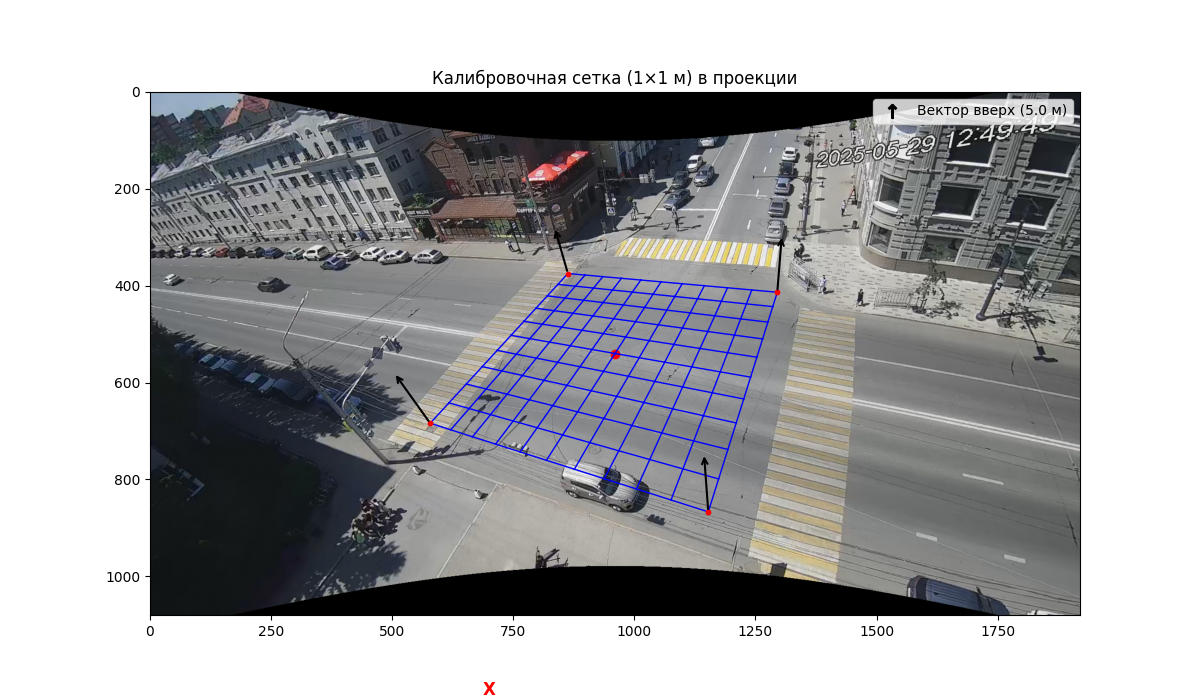
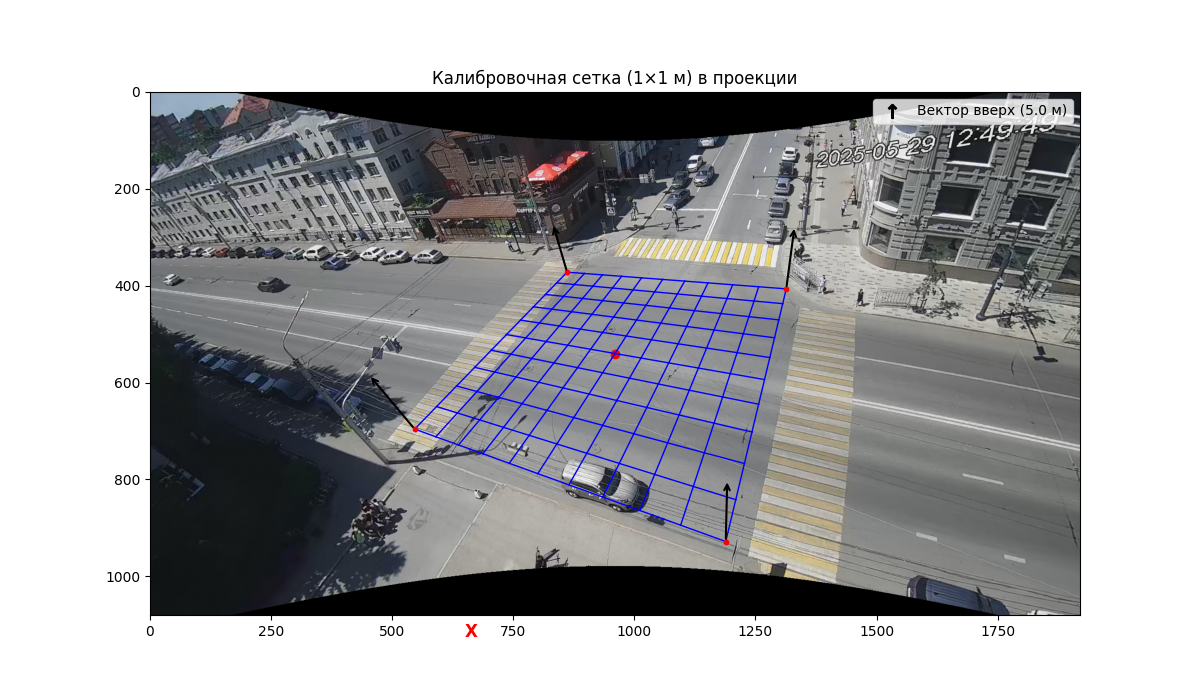
перешел на vscode, pycharm умер

Changed region(s): [[0.3392, 0.33, 0.6783, 0.78], [0.4008, 0.96, 0.4317, 0.99], [0.3083, 0.54, 0.3392, 0.57]]

diff --git a/example/karls_marks/example.py b/example/karls_marks/example.py
@@ -1,12 +1,18 @@
+import sys
+import os
+
+sys.path.insert(0, os.path.abspath(os.path.join(os.path.dirname(__file__), '..', '..')))
+
+
 import matplotlib.pyplot as plt
 
 from source import CalibrationPipeline, Camera, VanishingPointCalibration, \
     RefineOptimizer, PointND
 from source.calibration.utils import load_lines, load_lines_from_json, extract_direction_vectors_from_lines
-from calibration.refine import residual_interline_distance, residual_line_length
-from calibration.debug import load_scene_gps, visualize_source
+from source.calibration.refine import residual_interline_distance, residual_line_length
+from source.calibration.debug import load_scene_gps, visualize_source
 
-from vp_detection import VanishingPointEstimatorManual
+from source.vp_detection import VanishingPointEstimatorManual
 
 import numpy as np
 
@@ -23,7 +29,7 @@ camera = Camera('image/pattern_corrected_image.png')
 vp_init = VanishingPointCalibration(camera, debug_save_path='image/vp.png')
 vp_init.set_vanishing_points(vpX=vps_manual[0], vpZ=vps_manual[1])
 
-from utils import AnnotationParser
+from source.utils import AnnotationParser
 
 annotation_parser = AnnotationParser("marked/data_full.json")
 
@@ -35,11 +41,11 @@ data = {
 }
 
 resualds_blocks_first = [
-    lambda cam, data: residual_interline_distance(cam, data, group="pedestrian crossing", expected=4.2),
-    lambda cam, data: residual_interline_distance(cam, data, group="pedestrian crossing 2", expected=4.2),
-    lambda cam, data: residual_interline_distance(cam, data, group="pedestrian crossing 3", expected=4.2),
-    lambda cam, data: residual_interline_distance(cam, data, group="distance between line", expected=3.5),
-    lambda cam, data: residual_line_length(cam, data, group="pedestrian crossing", expected=24)
+    lambda cam, data: residual_interline_distance(cam, data, group="pedestrian crossing", expected=4),
+    lambda cam, data: residual_interline_distance(cam, data, group="pedestrian crossing 2", expected=4),
+    lambda cam, data: residual_interline_distance(cam, data, group="pedestrian crossing 3", expected=4),
+    lambda cam, data: residual_interline_distance(cam, data, group="distance between line", expected=3),
+    lambda cam, data: residual_line_length(cam, data, group="pedestrian crossing", expected=23),
 ]
 
 refiner_first = RefineOptimizer(camera=camera,
@@ -144,7 +150,7 @@ camera.extrinsics.set_rotation(euler_opt)
 
 print(*camera.get_params())
 
-from calibration.debug import visualize_grid_debug, visualize_grid_gps_debug
+from source.calibration.debug import visualize_grid_debug, visualize_grid_gps_debug
 
 point_start = PointND(camera.intrinsics.get_main_point(), add_weight=True)
 visualize_grid_debug(camera, point_start, grid_range=10, grid_step=2, save_path="image/grid_second.png")
@@ -153,7 +159,7 @@ visualize_grid_debug(camera, point_start, grid_range=10, grid_step=2, save_path=
 # visualize_vps_debug(camera, show=True)
 
 
-from calibration.utils import gps_to_enu, enu_to_gps
+from source.calibration.utils import gps_to_enu, enu_to_gps
 
 
 def generate_yandex_maps_url(points):
@@ -222,7 +228,7 @@ R = estimate_rotation_svd(points_cam, points_enu)
 anchor_3D = camera.project_back(PointND(camera.intrinsics.get_main_point(), add_weight=True), plane_z=0)
 anchor_x, anchor_y, anchor_z = anchor_3D.get()
 
-from calibration.debug import set_grid_real
+from source.calibration.debug import set_grid_real
 
 count, world_points = set_grid_real(anchor_x, anchor_y, 10, 2, 0)
 

diff --git a/source/calibration/refine/optimizer.py b/source/calibration/refine/optimizer.py
@@ -2,9 +2,9 @@ import numpy as np
 from pandas.core.methods.selectn import SelectNSeries
 from scipy.optimize import least_squares, minimize
 
-from calibration.base import Calibration
-from core.camera import Camera
-from core.pointND import PointND
+from ..base import Calibration
+from ...core.camera import Camera
+from ...core.pointND import PointND
 
 
 class RefineOptimizer(Calibration):
@@ -87,7 +87,7 @@ class RefineOptimizer(Calibration):
         self.camera.set_params_from_list(full_params)
 
         if self.debug_save_path is not None:
-            from calibration.debug import visualize_grid_debug, visualize_grid_gps_debug
+            from source.calibration.debug import visualize_grid_debug, visualize_grid_gps_debug
             point_start = PointND(self.camera.intrinsics.get_main_point(), add_weight=True)
             visualize_grid_debug(self.camera, point_start, save_path=self.debug_save_path + "grid.png", grid_range=10,
                                  grid_step=2)

diff --git a/source/calibration/init/from_vp.py b/source/calibration/init/from_vp.py
@@ -1,5 +1,5 @@
 import numpy as np
-from calibration.base import Calibration
+from ..base import Calibration
 from source.core import Camera, PointND
 
 
@@ -152,7 +152,7 @@ class VanishingPointCalibration(Calibration):
         print("✅ [VP Init] Инициализация завершена")
 
         if self.debug_save_path is not None:
-            from calibration.debug import visualize_vps_debug
+            from source.calibration.debug import visualize_vps_debug
             print(f"💾 Сохраняю визуализацию в: {self.debug_save_path}")
             visualize_vps_debug(self.camera, save_path=self.debug_save_path)
 

diff --git a/source/calibration/utils/__init__.py b/source/calibration/utils/__init__.py
@@ -1,6 +1,6 @@
-from calibration.utils.data_preparation import load_lines, load_lines_from_json, \
+from  .data_preparation import load_lines, load_lines_from_json, \
     extract_direction_vectors_from_lines
-from calibration.utils.gps_connection_world import gps_to_enu, enu_to_gps
+from .gps_connection_world import gps_to_enu, enu_to_gps
 from .plot_lines import draw_lines_on_image
 
 __all__ = [

diff --git a/source/calibration/refine/direct_error_funk.py b/source/calibration/refine/direct_error_funk.py
@@ -1,7 +1,7 @@
 import numpy as np
 
-from core import Camera, PointND
-from calibration.utils import gps_to_enu
+from ...core import Camera, PointND
+from ...calibration.utils import gps_to_enu
 
 
 def residual_reprojection_line(camera, data, group, gps_origin):

diff --git a/source/calibration/__init__.py b/source/calibration/__init__.py
@@ -1,6 +1,6 @@
 from .base import Calibration
 from .pipeline import CalibrationPipeline
-from calibration.refine.optimizer import RefineOptimizer
+from .refine.optimizer import RefineOptimizer
 from .init.from_vp import VanishingPointCalibration
 
 __all__ = [

diff --git a/source/calibration/debug/debug_scene.py b/source/calibration/debug/debug_scene.py
@@ -6,8 +6,8 @@ import requests
 from PIL import Image
 from io import BytesIO
 
-from core import Camera, PointND
-from calibration.utils import enu_to_gps
+from ...core import Camera, PointND
+from ..utils import enu_to_gps
 
 
 def visualize_grid_debug(

diff --git a/source/calibration/pipeline.py b/source/calibration/pipeline.py
@@ -1,5 +1,5 @@
-from core.camera import Camera
-from calibration.base import Calibration
+from ..core.camera import Camera
+from .base import Calibration
 
 
 class CalibrationPipeline:

diff --git a/source/calibration/utils/gps_connection_world.py b/source/calibration/utils/gps_connection_world.py
@@ -1,6 +1,6 @@
 import numpy as np
 from pyproj import Geod
-from core import PointND, Camera
+from ...core import PointND, Camera
 
 
 def gps_to_enu(lat, lon, ref_lat, ref_lon):

diff --git a/source/calibration/refine/back_error_funk.py b/source/calibration/refine/back_error_funk.py
@@ -1,6 +1,6 @@
 import numpy as np
 
-from core import Camera, PointND
+from ...core import Camera, PointND
 
 
 def residual_interline_distance(camera, data, group, expected):

diff --git a/source/calibration/base.py b/source/calibration/base.py
@@ -1,7 +1,7 @@
 from abc import ABC, abstractmethod
 import numpy as np
 
-from core.camera import Camera
+from ..core.camera import Camera
 
 
 class Calibration(ABC):

diff --git a/source/calibration/utils/data_preparation.py b/source/calibration/utils/data_preparation.py
@@ -2,7 +2,7 @@ import numpy as np
 import os
 import json
 
-from core.pointND import PointND
+from ...core.pointND import PointND
 
 
 def load_data(path):
